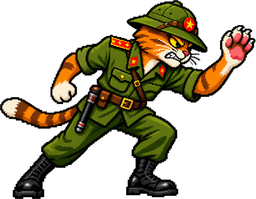
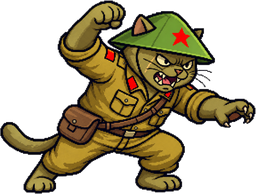
Deploy v13.12 (corrected sprites, Grimtail ending, POV ramp film)

diff --git a/boss2.js b/boss2.js
@@ -186,7 +186,7 @@ export class ParleyBoss extends RailBase {
               // v13.9: long enough to actually watch him lose. The ship comes
               // apart, and then he drags himself out of his own wreckage --
               // which is the ending Dylan wanted to see before committing to it.
-              this.doneT = 3400; this.wonT = 0;
+              this.doneT = 5200; this.wonT = 0;
             }
           }
         }
@@ -526,15 +526,30 @@ export class ParleyBoss extends RailBase {
     // pull back out: delete this block.
     if (this.won) {
       const wt = this.wonT || 0;
-      // v13.9.1 -- the wreckage-crawl sprite is PULLED. Canon Grimtail
-      // (chancellor_boss) is a grey rat in an orange and gold papal robe under
-      // a spiked crown. The sprite that landed here was a brown rat in a blue
-      // naval admiral's coat and a tricorn hat -- my prompt said "admiral",
-      // which I invented; the game never said that. Wrong colour, wrong
-      // garment, wrong genre. Re-enable this block once the art matches:
-      //   const ci = IMG.grimtail_crawl;  ...draw at gx, gy with the trail...
-      // Until then the ending is the hull tearing itself apart, which is what
-      // it was before and reads correctly.
+      // v13.12 -- RESTORED. The v2 sprite is canon Grimtail: grey rat, orange
+      // and gold robe, spiked crown. The version pulled in v13.9.1 was a brown
+      // rat in a blue admiral's coat, which was my prompt's invention.
+      const ci = IMG.grimtail_crawl;
+      if (ci && wt > 2200) {
+        const k = Math.min(1, (wt - 2200) / 900);         // fade up out of the smoke
+        const crawl = Math.min(1, (wt - 2200) / 3000);    // and he keeps moving
+        const gh = 190, gw = gh * (ci.width / ci.height);
+        ctx.save();
+        ctx.globalAlpha = k;
+        const gx = this.bx + 120 - crawl * 240;           // dragging toward the player
+        const gy = GY - gh * 0.62 + Math.sin(wt / 220) * 3;   // the effort of it
+        ctx.drawImage(ci, gx - gw / 2, gy, gw, gh);
+        ctx.restore();
+        // the trail he leaves behind him
+        ctx.save();
+        ctx.globalAlpha = k * 0.5;
+        ctx.fillStyle = 'rgba(120,230,60,0.7)';
+        for (let i = 0; i < 7; i++) {
+          const tx = gx + gw * 0.34 + i * 26 + crawl * 40;
+          ctx.beginPath(); ctx.ellipse(tx, GY - 14 + (i % 2) * 4, 13 - i, 4, 0, 0, 7); ctx.fill();
+        }
+        ctx.restore();
+      }
       // the fires left burning in the debris field
       ctx.save();
       for (let i = 0; i < 7; i++) {

diff --git a/chunks.js b/chunks.js
@@ -305,9 +305,16 @@ export const VIDEO_URLS = {
   // cats go flying, Whiskers hauls himself onto a floating board and rides it
   // -- which is exactly the state the Surf section hands the player.
   surfout: HF + 'hf_20260831_031014_9ecfd5e7-cf9e-4ee0-96c3-d930107ceb6b.mp4',
-  // v13.11 FORK 2: the other way out of the river. You put the boat over the
-  // wreck's fin instead of round it, and you come down in the trees.
-  rampout: CDN + '2605cc8e-0416-41d9-80bc-1f502df28dfa.mp4',
+  // v13.12 FORK 2, POV ONLY. Nine attempts at this shot; the honest lesson is
+  // that generated clips cannot hold a CHARACTER across a cut -- every version
+  // gave us two orange cats instead of one orange and one black, or swapped
+  // their hats between shots. They CAN hold an environment, once Seedance
+  // extends real footage rather than inventing a new scene.
+  // So this cut shows only what cannot go wrong: the first-person ride up the
+  // wreck's ramp and the launch. No cat is ever in frame, so no cat can be
+  // off-model. The exterior and the crash are held until the characters are
+  // locked. Verified frame by frame: same wreck, same light, real apex.
+  rampout: CDN + '4d308ae5-8f4d-446b-a5ed-f43feaca4121.mp4',
   // v13.11 THE ENDING: Grimtail is down, the fleet pulls out, and both their
   // radios go off at once. The alien war is over. Theirs is not.
   ending: CDN + '79890436-5d17-45ac-9a12-e3744016dd9b.mp4',

diff --git a/boat.js b/boat.js
@@ -438,7 +438,11 @@ export class PTBoat extends RailBase {
     const bx = 220;
 
     // --- the ship coming down ---
-    const hull = IMG.alien_scanship;
+    // v13.12: it took your bow gun on the way in, so it arrives already hurt
+    // and settles as a burnt-out wreck. Standing rule: everything that takes
+    // damage visibly reacts, and this was the one thing in the scene that
+    // soaked fire without changing.
+    const hull = IMG.alien_scanship_hurt || IMG.alien_scanship;
     const hh = 190, hw = hull ? hh * (hull.width / hull.height) : 380;
     if (k < WRECK_SET) {
       const e = Math.min(1, k / WRECK_SET);
@@ -474,12 +478,14 @@ export class PTBoat extends RailBase {
         }
         ctx.restore();
       }
-      // the half-sunk hull
+      // the half-sunk hull, burnt out now rather than merely damaged
+      const dead = IMG.alien_scanship_wreck || hull;
+      const dw = dead ? hh * (dead.width / dead.height) : hw;
       ctx.save();
       ctx.globalAlpha = set;
       ctx.translate(620, wy + 28);
       ctx.rotate(0.16);
-      if (hull) ctx.drawImage(hull, -hw / 2, -hh / 2, hw, hh * 0.72);
+      if (dead) ctx.drawImage(dead, -dw / 2, -hh / 2, dw, hh * 0.72);
       ctx.restore();
       // THE FIN. A big pale wedge angled up out of the water, lit, unmissable.
       ctx.save();
